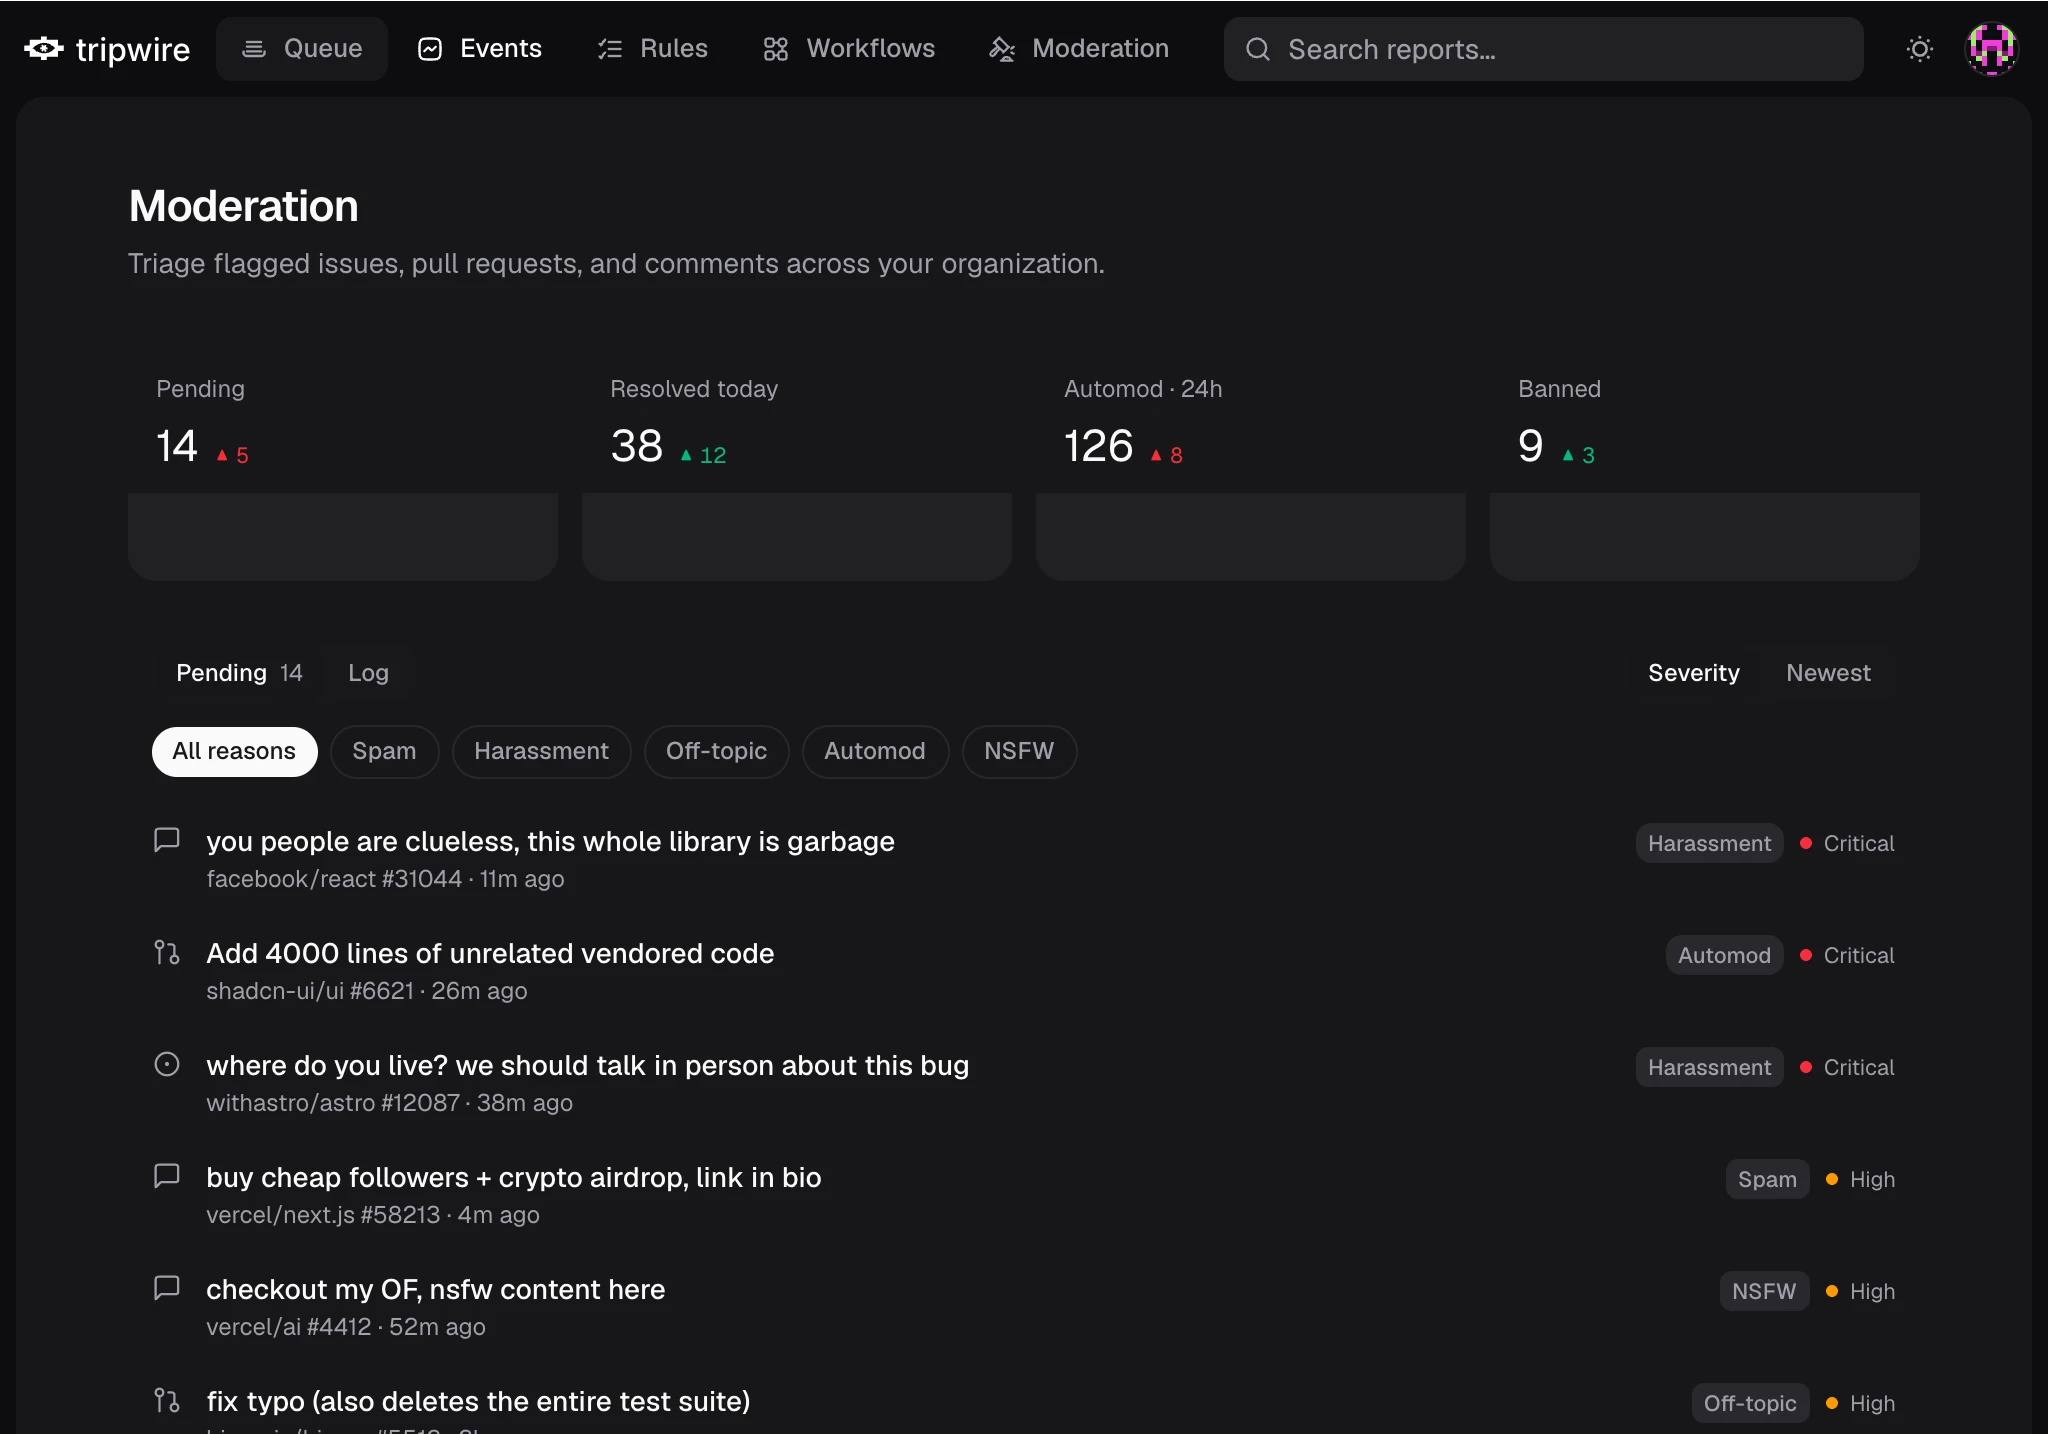
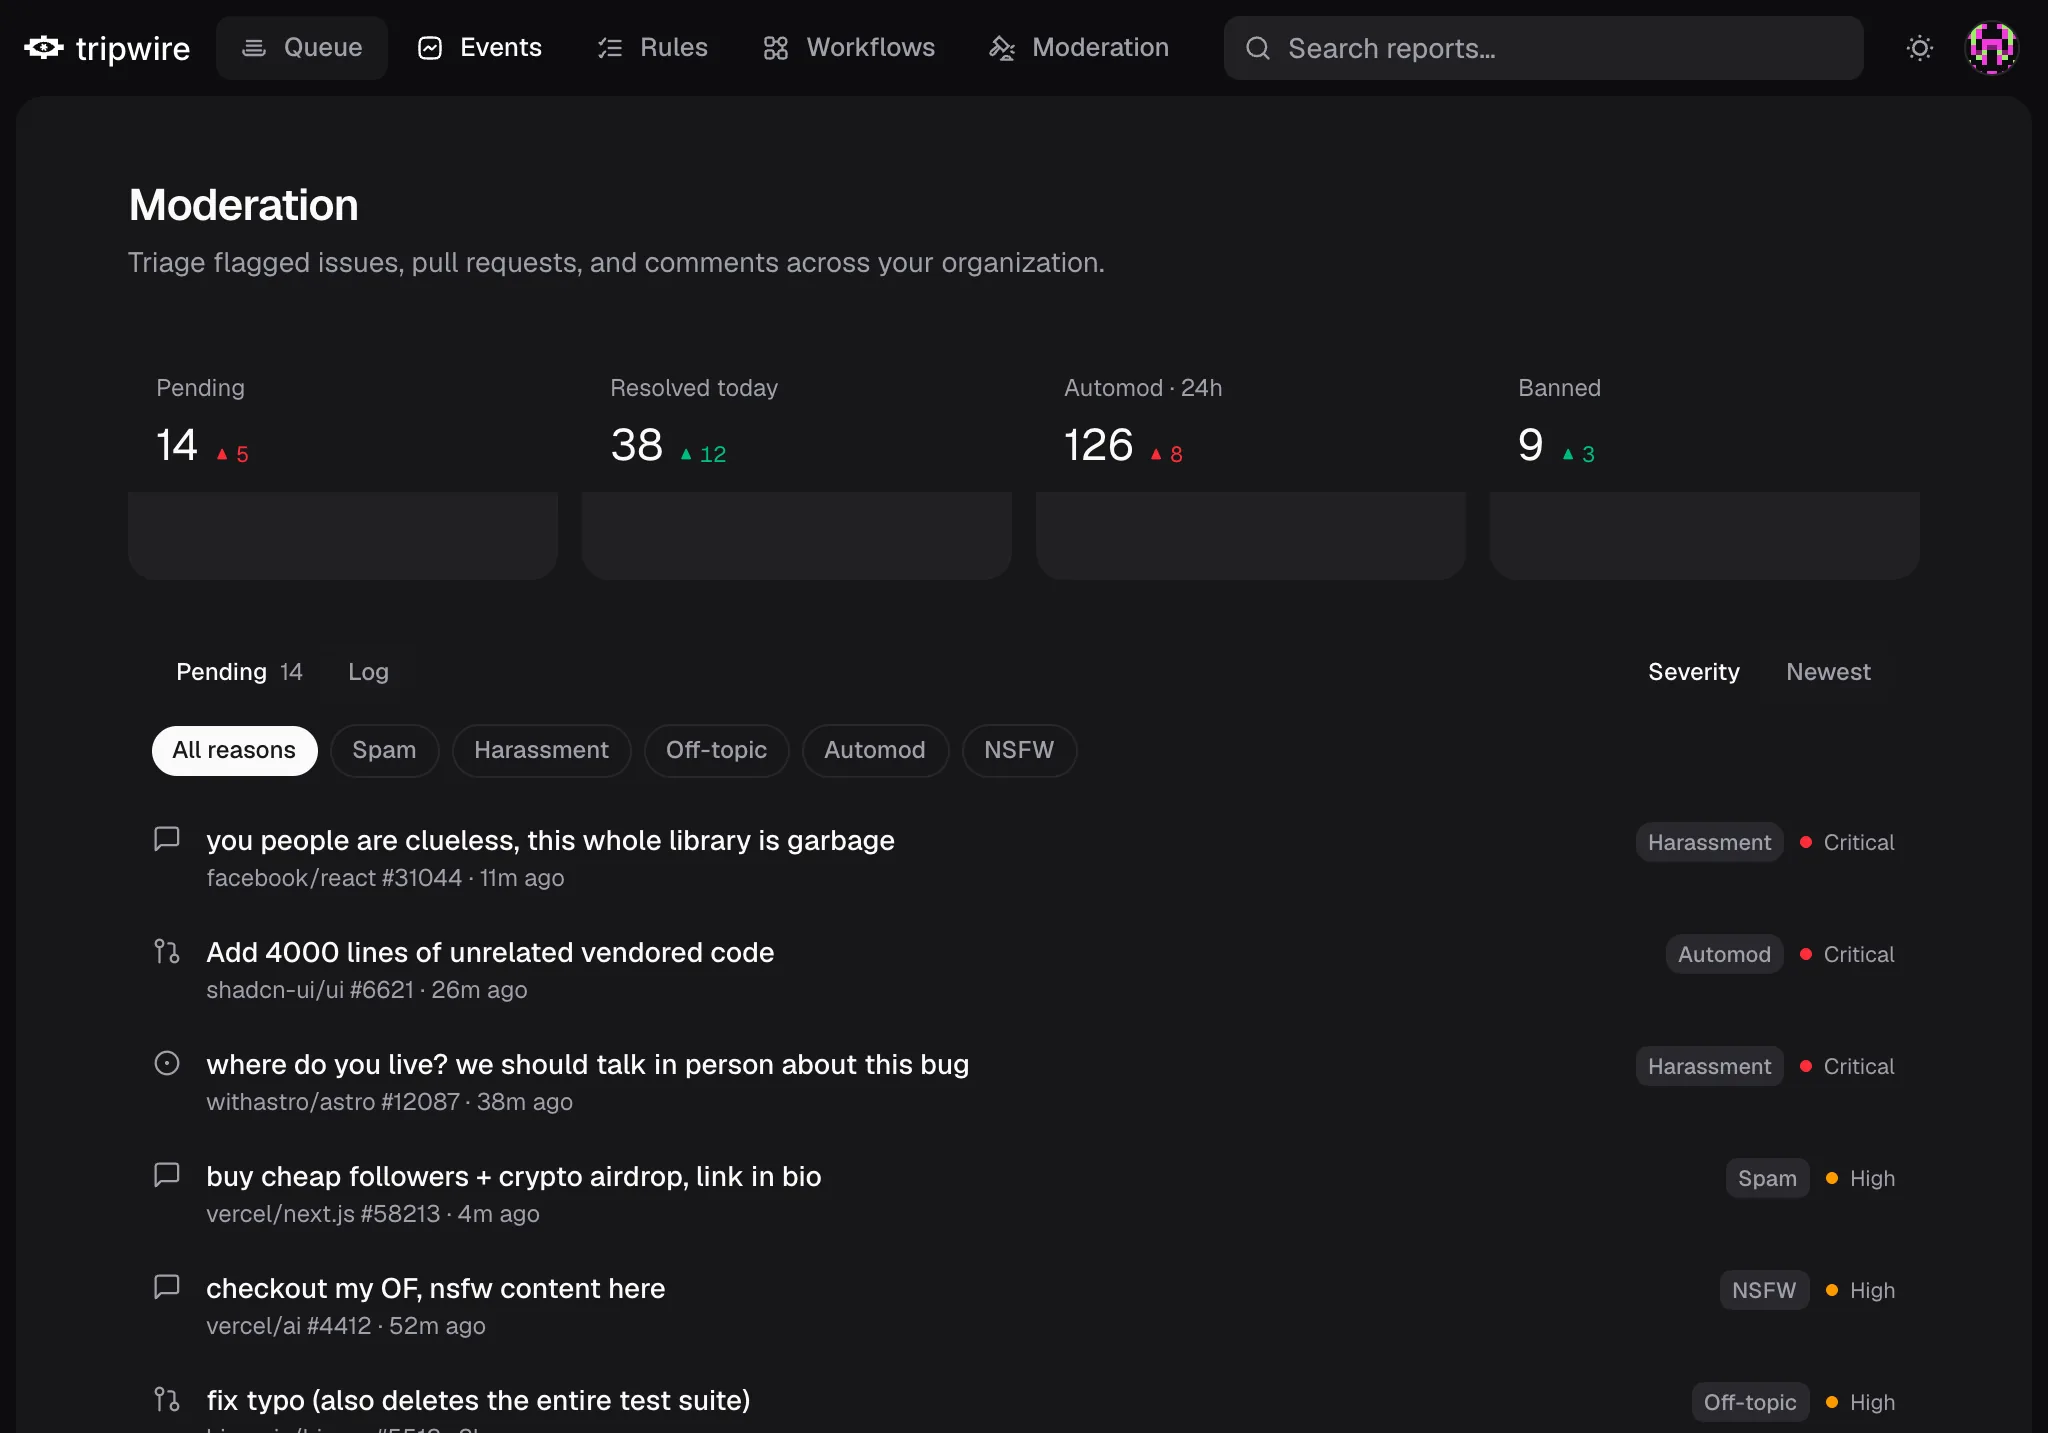
visual improvements

diff --git a/lib/content.ts b/lib/content.ts
@@ -32,30 +32,36 @@ export const HERO = {
   cta: "Join the waitlist",
   screenshotAlt:
     "Tripwire moderation dashboard triaging flagged issues, pull requests, and comments across an organization",
-  /* Image is 1024×717. */
+  /*
+   * Image is 1024×716.5 in design units. The export's top row was fully
+   * transparent — the bright backdrop showed through it as a hairline — so that
+   * row is trimmed from the asset. Everything therefore sits 0.5px higher than
+   * the raw frame coordinates, and these percentages account for it:
+   *   top = (node.y − 0.5) / 716.5
+   */
   hotspots: [
     /* Topbar nav: Queue / Events / Rules / Workflows / Moderation (32px tall). */
-    { left: 10.547, top: 1.116, width: 8.398, height: 4.463 },
-    { left: 19.141, top: 1.116, width: 8.594, height: 4.463 },
-    { left: 27.93, top: 1.116, width: 7.91, height: 4.463 },
-    { left: 36.035, top: 1.116, width: 10.84, height: 4.463 },
-    { left: 47.07, top: 1.116, width: 11.23, height: 4.463 },
+    { left: 10.547, top: 1.047, width: 8.398, height: 4.466 },
+    { left: 19.141, top: 1.047, width: 8.594, height: 4.466 },
+    { left: 27.93, top: 1.047, width: 7.91, height: 4.466 },
+    { left: 36.035, top: 1.047, width: 10.84, height: 4.466 },
+    { left: 47.07, top: 1.047, width: 11.23, height: 4.466 },
 
     /* Reason filter chips: All reasons / Spam / Harassment / Off-topic / Automod / NSFW. */
-    { left: 7.422, top: 50.698, width: 8.105, height: 3.487, radius: 999 },
-    { left: 16.113, top: 50.558, width: 5.371, height: 3.766, radius: 999 },
-    { left: 22.07, top: 50.558, width: 8.789, height: 3.766, radius: 999 },
-    { left: 31.445, top: 50.558, width: 7.129, height: 3.766, radius: 999 },
-    { left: 39.16, top: 50.558, width: 7.227, height: 3.766, radius: 999 },
-    { left: 46.973, top: 50.558, width: 5.664, height: 3.766, radius: 999 },
+    { left: 7.422, top: 50.663, width: 8.105, height: 3.489, radius: 999 },
+    { left: 16.113, top: 50.523, width: 5.371, height: 3.768, radius: 999 },
+    { left: 22.07, top: 50.523, width: 8.789, height: 3.768, radius: 999 },
+    { left: 31.445, top: 50.523, width: 7.129, height: 3.768, radius: 999 },
+    { left: 39.16, top: 50.523, width: 7.227, height: 3.768, radius: 999 },
+    { left: 46.973, top: 50.523, width: 5.664, height: 3.768, radius: 999 },
 
     /* The six report rows in the moderation queue (896×56 each). */
-    { left: 6.25, top: 55.927, width: 87.5, height: 7.81, radius: 10 },
-    { left: 6.25, top: 63.738, width: 87.5, height: 7.81, radius: 10 },
-    { left: 6.25, top: 71.548, width: 87.5, height: 7.81, radius: 10 },
-    { left: 6.25, top: 79.359, width: 87.5, height: 7.81, radius: 10 },
-    { left: 6.25, top: 87.169, width: 87.5, height: 7.81, radius: 10 },
-    { left: 6.25, top: 94.98, width: 87.5, height: 7.81, radius: 10 },
+    { left: 6.25, top: 55.897, width: 87.5, height: 7.816, radius: 10 },
+    { left: 6.25, top: 63.712, width: 87.5, height: 7.816, radius: 10 },
+    { left: 6.25, top: 71.528, width: 87.5, height: 7.816, radius: 10 },
+    { left: 6.25, top: 79.344, width: 87.5, height: 7.816, radius: 10 },
+    { left: 6.25, top: 87.16, width: 87.5, height: 7.816, radius: 10 },
+    { left: 6.25, top: 94.976, width: 87.5, height: 7.816, radius: 10 },
   ] satisfies Hotspot[],
 };
 

diff --git a/components/sections/Hero.tsx b/components/sections/Hero.tsx
@@ -1,4 +1,6 @@
+import Image from "next/image";
 import heroDashboard from "@/public/visuals/hero-dashboard.webp";
+import heroBackdrop from "@/public/visuals/hero-backdrop.webp";
 import { HERO } from "@/lib/content";
 import Reveal from "@/components/Reveal";
 import WaitlistCta from "@/components/WaitlistCta";
@@ -7,7 +9,9 @@ import InteractiveShot from "@/components/InteractiveShot";
 export default function Hero() {
   return (
     <section id="hero" className="scroll-mt-20 pt-16">
-      <div className="mx-auto w-full max-w-[1536px] px-8 py-24">
+      {/* py halved on mobile — the full 96px top and bottom left the hero
+          stranded from the section below on a small screen. */}
+      <div className="mx-auto w-full max-w-[1536px] px-8 sm:px-12 lg:px-20 py-12 md:py-24">
         <Reveal className="mb-12 max-w-[654px]">
           <h1 className="mb-4 text-[36px]/[1.25] font-medium text-balance text-foreground">
             {HERO.headline}
@@ -20,18 +24,37 @@ export default function Hero() {
         <Reveal delay={100}>
           {/*
            * The frame bakes the dashboard into a padded backdrop frame. That
-           * padding is rebuilt here in CSS (bg + radial gradient + radius, per
-           * the frame) so the screenshot itself can fill the container instead
-           * of being inset inside the exported image.
+           * padding is rebuilt here in CSS so the screenshot fills its own
+           * container — and the frame's flat dark backdrop is replaced by the
+           * landscape painting, which shows through the padding around the app.
+           *
+           * The painting is decorative (alt=""): it carries no information the
+           * page doesn't already say in text.
            */}
-          <div className="overflow-hidden rounded-shot bg-backdrop bg-[radial-gradient(circle_farthest-corner_at_50%_50%_in_oklab,oklab(64.7%_-0.047_-0.165_/_10%)_0%,oklab(14.5%_0.0006_-0.002_/_0%)_55%)] p-4 sm:p-6 lg:p-8">
+          <div className="relative overflow-hidden rounded-tight bg-backdrop p-5 sm:p-10 md:rounded-ui lg:p-16">
+            {/*
+             * Decoration, so it is tuned for weight over fidelity: the source is
+             * pre-cropped to this container's aspect (no pixels thrown away by
+             * object-cover) and served at q=65. At full res it was a 736 kB
+             * download sitting right next to the LCP.
+             */}
+            <Image
+              src={heroBackdrop}
+              alt=""
+              aria-hidden="true"
+              fill
+              priority
+              quality={65}
+              sizes="(max-width: 1536px) 100vw, 1472px"
+              className="object-cover"
+            />
             <InteractiveShot
               src={heroDashboard}
               alt={HERO.screenshotAlt}
               priority
-              sizes="(max-width: 1536px) 100vw, 1472px"
+              sizes="(max-width: 1536px) 100vw, 1440px"
               hotspots={HERO.hotspots}
-              className="overflow-hidden rounded-panel"
+              className="relative overflow-hidden rounded-tight shadow-2xl ring-1 ring-black/20 md:rounded-ui"
               imageClassName="h-auto w-full"
             />
           </div>

diff --git a/components/sections/Nav.tsx b/components/sections/Nav.tsx
@@ -21,9 +21,19 @@ export default function Nav() {
         scrolled ? "bg-background/80 backdrop-blur-md" : "bg-background"
       }`}
     >
-      <div className="mx-auto w-full max-w-[1536px] px-8">
-        <div className="grid h-16 grid-cols-[auto_1fr_auto] items-center gap-8">
-          <a href="#hero" className="flex items-center gap-2.5 text-foreground">
+      <div className="mx-auto w-full max-w-[1536px] px-8 sm:px-12 lg:px-20">
+        {/*
+         * 1fr auto 1fr, not auto 1fr auto: with equal-weight side columns the
+         * centre column lands on the true centre of the bar. Sizing the sides
+         * to their content (auto) centred the nav within its column instead,
+         * which reads as left-leaning because the logo is much narrower than
+         * the buttons opposite it.
+         */}
+        <div className="grid h-16 grid-cols-[1fr_auto_1fr] items-center gap-8">
+          <a
+            href="#hero"
+            className="flex w-fit items-center gap-2.5 text-foreground"
+          >
             <Logo width={20} height={14} />
             <span className="text-[16px]/[1.5] font-medium">{SITE.name}</span>
           </a>
@@ -53,13 +63,13 @@ export default function Nav() {
           <div className="col-start-3 flex items-center justify-end gap-3">
             <a
               href={NAV_ACCESS.href}
-              className="hidden rounded-full border border-line-strong bg-surface px-[10.5px] pt-[5.6px] pb-[5.88px] text-sm/[1.43] font-medium whitespace-nowrap text-foreground transition-opacity duration-150 hover:opacity-85 md:block"
+              className="hidden rounded-ui border border-line-strong bg-surface px-[10.5px] pt-[5.6px] pb-[5.88px] text-sm/[1.43] font-medium whitespace-nowrap text-foreground transition-opacity duration-150 hover:opacity-85 md:block"
             >
               {NAV_ACCESS.label}
             </a>
             <a
               href={NAV_CTA.href}
-              className="hidden rounded-full bg-foreground px-[10.5px] pt-[5.6px] pb-[5.88px] text-sm/[1.43] font-medium whitespace-nowrap text-background transition-opacity duration-150 hover:opacity-85 md:block"
+              className="hidden rounded-ui bg-foreground px-[10.5px] pt-[5.6px] pb-[5.88px] text-sm/[1.43] font-medium whitespace-nowrap text-background transition-opacity duration-150 hover:opacity-85 md:block"
             >
               {NAV_CTA.label}
             </a>
@@ -112,7 +122,7 @@ export default function Nav() {
             <a
               href={NAV_CTA.href}
               onClick={() => setMenuOpen(false)}
-              className="mt-3 rounded-full bg-foreground px-4 py-2.5 text-center text-sm font-medium text-background transition-opacity duration-150 hover:opacity-85"
+              className="mt-3 rounded-tight bg-foreground px-4 py-2.5 text-center text-sm font-medium text-background transition-opacity duration-150 hover:opacity-85"
             >
               {NAV_CTA.label}
             </a>

diff --git a/components/WaitlistCta.tsx b/components/WaitlistCta.tsx
@@ -32,8 +32,8 @@ export default function WaitlistCta({
 
   const buttonClasses =
     size === "md"
-      ? "rounded-full bg-foreground px-[10.5px] pt-[5.6px] pb-[5.88px] text-[16px]/[1.5] font-medium text-background"
-      : "rounded-full bg-foreground px-[17.5px] pt-[7px] pb-[7.28px] text-sm/[1.43] font-medium text-background";
+      ? "rounded-tight md:rounded-ui bg-foreground px-[10.5px] pt-[5.6px] pb-[5.88px] text-[16px]/[1.5] font-medium text-background"
+      : "rounded-tight md:rounded-ui bg-foreground px-[17.5px] pt-[7px] pb-[7.28px] text-sm/[1.43] font-medium text-background";
 
   const justify = align === "center" ? "justify-center" : "justify-start";
 
@@ -100,12 +100,12 @@ export default function WaitlistCta({
           placeholder={WAITLIST.placeholder}
           aria-label="Email address"
           aria-invalid={status === "error" || undefined}
-          className="w-64 max-w-full rounded-full border border-line-strong bg-surface px-4 py-1.5 text-sm text-foreground placeholder:text-faint"
+          className="w-64 max-w-full rounded-tight border border-line-strong bg-surface px-4 py-1.5 text-sm text-foreground placeholder:text-faint md:rounded-ui"
         />
         <button
           type="submit"
           disabled={status === "loading"}
-          className="cursor-pointer rounded-full bg-foreground px-[17.5px] py-[7px] text-sm font-medium text-background transition-opacity duration-150 hover:opacity-85 disabled:opacity-60"
+          className="cursor-pointer rounded-tight bg-foreground px-[17.5px] py-[7px] text-sm font-medium text-background transition-opacity duration-150 hover:opacity-85 disabled:opacity-60 md:rounded-ui"
         >
           {status === "loading" ? "…" : WAITLIST.submit}
         </button>

diff --git a/components/sections/FeatureSection.tsx b/components/sections/FeatureSection.tsx
@@ -23,7 +23,7 @@ export default function FeatureSection({
       id={id}
       className={`scroll-mt-20 ${bordered ? "border-b border-line" : ""}`}
     >
-      <div className="mx-auto w-full max-w-[1280px] px-8 py-24">
+      <div className="mx-auto w-full max-w-[1280px] px-8 sm:px-12 lg:px-20 py-12 md:py-24">
         <div className="grid items-center gap-16 md:grid-cols-2">
           <Reveal className={visual === "left" ? "md:order-2" : undefined}>
             <div className="flex flex-col gap-5">

diff --git a/app/globals.css b/app/globals.css
@@ -26,8 +26,13 @@
 
   --font-sans: var(--font-inter), system-ui, sans-serif;
 
-  --radius-panel: 14px;
-  --radius-shot: 18px;
+  /*
+   * The frame used 18px/14px corners and full pills. Both were dialled back:
+   * 10px on tablet/desktop, 5px on mobile, applied to the hero asset and every
+   * button. An approved deviation from the frame — see README.
+   */
+  --radius-tight: 5px; /* mobile */
+  --radius-ui: 10px; /* tablet + desktop */
 }
 
 @media (prefers-reduced-motion: no-preference) {

diff --git a/components/sections/CtaBand.tsx b/components/sections/CtaBand.tsx
@@ -5,7 +5,7 @@ import WaitlistCta from "@/components/WaitlistCta";
 export default function CtaBand() {
   return (
     <section id="cta" className="scroll-mt-20 border-t border-line">
-      <div className="px-8 py-24">
+      <div className="px-8 py-24 sm:px-12 lg:px-20">
         <Reveal className="mx-auto max-w-3xl text-center">
           <h2 className="text-5xl/[1] font-medium tracking-[-1.2px] text-foreground">
             {CTA_BAND.headline}

diff --git a/components/sections/Footer.tsx b/components/sections/Footer.tsx
@@ -4,7 +4,7 @@ import { Logo } from "@/components/icons";
 export default function Footer() {
   return (
     <footer className="border-t border-line">
-      <div className="mx-auto w-full max-w-[1280px] px-8 py-12">
+      <div className="mx-auto w-full max-w-[1280px] px-8 sm:px-12 lg:px-20 py-12">
         <div className="mb-12 grid gap-8 sm:grid-cols-3">
           {FOOTER_COLUMNS.map((column) => (
             <div key={column.heading}>

diff --git a/components/sections/Faq.tsx b/components/sections/Faq.tsx
@@ -10,7 +10,7 @@ export default function Faq() {
 
   return (
     <section id="faq" className="scroll-mt-20 border-t border-line">
-      <div className="mx-auto w-full max-w-[1280px] px-8 py-24">
+      <div className="mx-auto w-full max-w-[1280px] px-8 sm:px-12 lg:px-20 py-24">
         <div className="grid gap-12 md:grid-cols-2">
           <Reveal>
             <h2 className="text-[36px]/[1.11] font-medium text-foreground">
